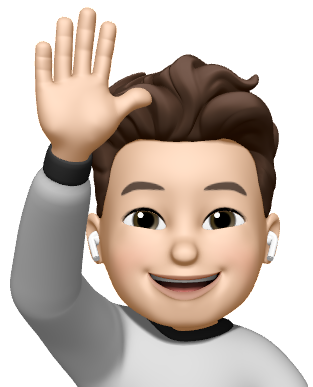
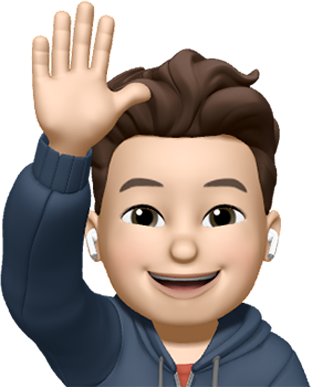
add cloths

diff --git a/components/posts/Comment.js b/components/posts/Comment.js
@@ -1,7 +1,7 @@
 import { Giscus } from "@giscus/react";
 const Comment = () => {
   return (
-    <div className="max-w-4xl py-5 px-2 sm:px-5 secondbg border mx-auto text-black-readable dark:text-white-readable rounded-lg">
+    <div className="max-w-4xl py-5 px-2 sm:px-5 secondbg border mx-auto text-black-readable dark:text-white-readable rounded-lg print:hidden">
       <div className="dark:hidden">
         <Giscus
           repo="whexy/whexy-blog-comments"

diff --git a/posts/blog-diy.md b/posts/blog-diy.md
@@ -6,6 +6,8 @@ series: blog
 
 2014 年，我注册了这个域名用来自建博客发表文章，相继用过了 WordPress，Hexo，Hugo 等等博客系统。去年突发奇想，想要 DIY 一个。迭代更新了半年时间，收到了不少朋友们的好评。本文主要介绍一下这个博客系统开发过程中总结的经验。
 
+<!-- more -->
+
 文章分为四个部分。
 
 1. **设计**：文章排版、组件定义、页面设计，构思一个兼具观赏性和实用性的的阅读页面。
